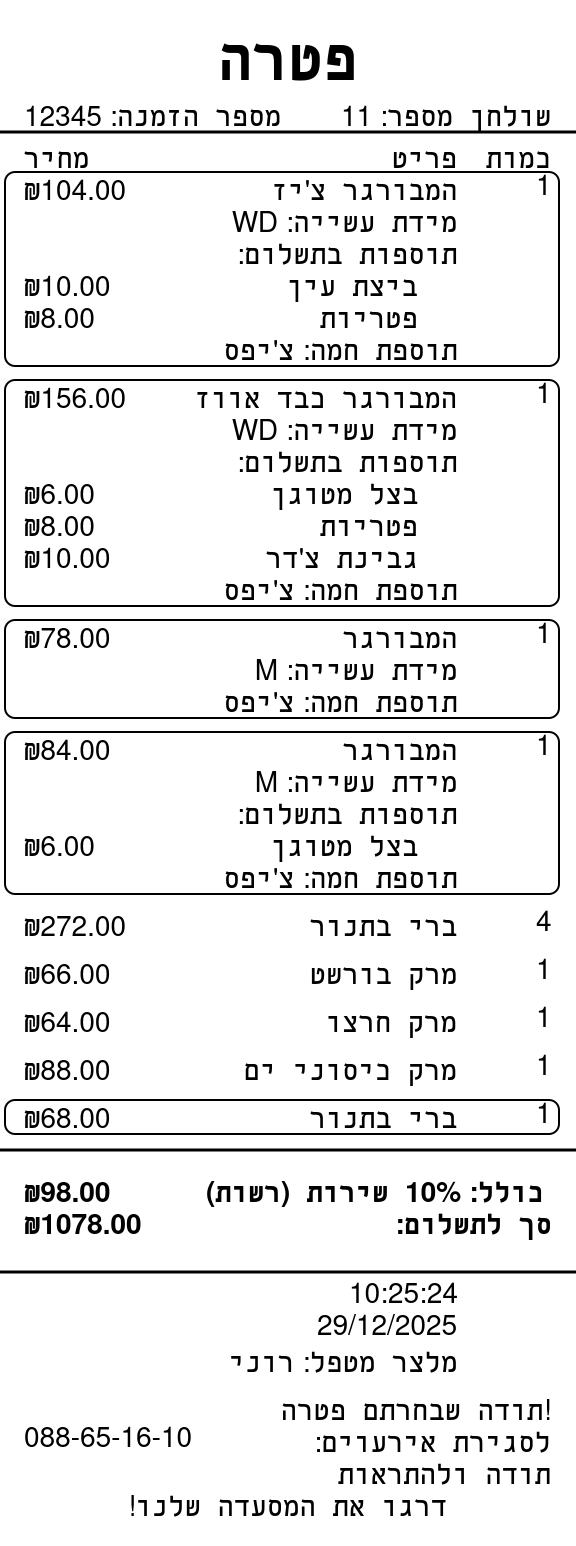
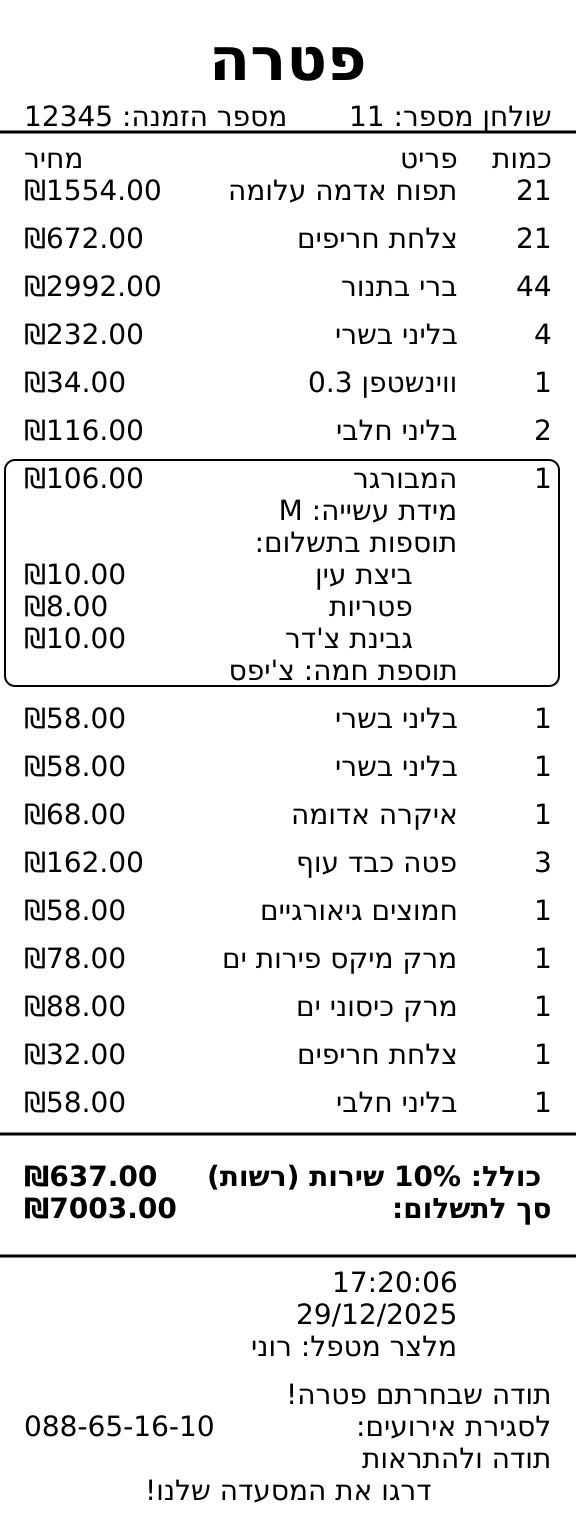
Started working on the bons

Changed region(s): [[0.0, 0.0307, 1.0, 0.983], [0.9375, 0.3993, 0.9688, 0.4301]]

diff --git a/helpers/printCanvas.js b/helpers/printCanvas.js
@@ -1,4 +1,4 @@
-const { createCanvas, loadImage } = require("canvas");
+const { createCanvas, registerFont } = require("canvas");
 const fs = require("fs");
 const bidiFactory = require("bidi-js");
 const bidi = bidiFactory();
@@ -13,12 +13,18 @@ const HEIGHT = 5000;
 const MARGIN = 24;
 const LINE_HEIGHT = 32;
 
-const LRM = "\u200E";
-const RLM = "\u200F";
-
 let y = MARGIN;
-
+const font = "Ariel";
 /* ----------------- HELPERS ----------------- */
+
+function hasNonVariationKeys(item) {
+  return (
+    item.extra &&
+    Object.keys(item.extra).some(
+      (key) => key !== "variations" && key !== "comment"
+    )
+  );
+}
 
 function drawRoundedRect(ctx, x, yTop, width, yBottom, radius) {
   const height = yBottom - yTop;
@@ -35,7 +41,7 @@ function drawRoundedRect(ctx, x, yTop, width, yBottom, radius) {
     yTop + height,
     x + width - radius,
     yTop + height,
-    radius,
+    radius
   );
   ctx.lineTo(x + radius, yTop + height);
   ctx.arcTo(x, yTop + height, x, yTop + height - radius, radius);
@@ -100,14 +106,14 @@ function newLine() {
 }
 
 function center(ctx, text, size = 28, bold = false) {
-  ctx.font = `${bold ? "bold" : ""} ${size}px Arial`;
+  ctx.font = `${bold ? "bold" : ""} ${size}px ${font}`;
   ctx.textAlign = "center";
   ctx.fillText(text, WIDTH / 2, y);
   lineIncrease(size);
 }
 
 function right(ctx, text, size = 24) {
-  ctx.font = `${size}px Arial`;
+  ctx.font = `${size}px ${font}`;
   ctx.textAlign = "right";
   ctx.fillText(text, WIDTH - MARGIN, y);
   lineIncrease(size);
@@ -123,7 +129,7 @@ function separator(ctx) {
 }
 
 function leftRight(ctx, leftText, rightText, size = 28) {
-  ctx.font = `${size}px Arial`;
+  ctx.font = `${size}px ${font}`;
   ctx.textAlign = "left";
   ctx.fillText(leftText, MARGIN, y);
 
@@ -140,10 +146,10 @@ function leftCenterRight(
   rightText,
   bold = false,
   centerOffset = 170,
-  size = 28,
+  size = 28
 ) {
   console.log(bold);
-  ctx.font = `${bold ? "bold" : ""} ${size}px Arial`;
+  ctx.font = `${bold ? "bold" : ""} ${size}px ${font}`;
 
   // Left
   ctx.textAlign = "left";
@@ -161,7 +167,7 @@ function leftCenterRight(
 }
 
 /* ----------------- RECEIPT ----------------- */
-async function printCanvas(order, autoClose = true) {
+async function printBill(order) {
   const canvas = createCanvas(WIDTH, HEIGHT);
   const ctx = canvas.getContext("2d");
   const waiter = await getWaiter(order.waiterID);
@@ -173,7 +179,7 @@ async function printCanvas(order, autoClose = true) {
   ctx.fillRect(0, 0, WIDTH, HEIGHT);
 
   ctx.fillStyle = "#000000";
-  ctx.font = "24px Arial";
+  ctx.font = `24px ${font}`;
   ctx.textBaseline = "top";
 
   // Header
@@ -196,11 +202,152 @@ async function printCanvas(order, autoClose = true) {
       ctx,
       "₪" + item.price * item.amount + ".00",
       item.name,
-      item.amount,
+      item.amount
     );
+    const infoItem = (await getItem(item.id))[0];
 
-    if (item.extra) {
-      const infoItem = (await getItem(item.id))[0];
+    if (infoItem.extra) {
+      for (const key of Object.keys(infoItem.extra)) {
+        if (key !== "variations" && infoItem.extra[key].type === "radio") {
+          let string;
+
+          console.log(
+            key,
+            containsHebrew(infoItem.extra[key].items[item.extra[key]].name)
+          );
+          if (containsHebrew(infoItem.extra[key].items[item.extra[key]].name)) {
+            string =
+              " ".repeat(MARGIN) +
+              translation[key] +
+              ": " +
+              (infoItem.extra[key].items[item.extra[key]]?.name ?? "");
+          } else {
+            string =
+              " ".repeat(MARGIN) +
+              (infoItem.extra[key].items[item.extra[key]]?.name ?? "") +
+              " :" +
+              translation[key];
+          }
+
+          leftCenterRight(ctx, "", string, "");
+        }
+        if (
+          key !== "variations" &&
+          infoItem.extra[key].type === "checkbox" &&
+          item.extra[key]
+        ) {
+          console.log(infoItem);
+          leftCenterRight(
+            ctx,
+            "",
+            " ".repeat(MARGIN) + `:${translation[key]}`,
+            ""
+          );
+
+          console.log(item.extra[key]);
+          for (const num of item.extra[key]) {
+            leftCenterRight(
+              ctx,
+              "₪" + infoItem.extra[key].items[num]?.price + ".00",
+              infoItem.extra[key].items[num]?.name + " ".repeat(5),
+              ""
+            );
+          }
+        }
+      }
+    }
+    if (hasNonVariationKeys(infoItem)) {
+      drawRoundedRect(ctx, 5, startY - 2, WIDTH - 22, y, 10);
+    }
+    newLine();
+    total += item.price * item.amount;
+  }
+
+  separator(ctx);
+
+  // Totals
+  newLine();
+  leftCenterRight(
+    ctx,
+    "₪" + Math.round(total * order.percent - total) + ".00",
+    "",
+    "כולל: " + toPercent(order.percent) + "% " + "שירות (רשות) ",
+    true
+  );
+  console.log(total);
+  console.log();
+
+  leftCenterRight(
+    ctx,
+    "₪" + Math.round(total * order.percent) + ".00",
+    "",
+    ":סך לתשלום",
+    true
+  );
+
+  lineIncrease();
+  separator(ctx);
+
+  leftCenterRight(ctx, "", order.time, "");
+  leftCenterRight(ctx, "", order.date, "");
+  leftCenterRight(ctx, "", "מלצר מטפל: " + waiter, "");
+
+  newLine();
+
+  leftCenterRight(ctx, "", "", "!תודה שבחרתם פטרה");
+  leftCenterRight(ctx, "088-65-16-10", "", ":לסגירת אירועים");
+  leftCenterRight(ctx, "", "", "תודה ולהתראות");
+  center(ctx, "!דרגו את המסעדה שלנו");
+
+  // Trim
+  const finalCanvas = createCanvas(WIDTH, y + MARGIN);
+  finalCanvas.getContext("2d").drawImage(canvas, 0, 0);
+
+  fs.writeFileSync("helpers/image.png", finalCanvas.toBuffer("image/png"));
+
+  printImage(
+    finalCanvas,
+    WIDTH,
+    nextMultipleOf8(y + MARGIN),
+    order.printer.address
+  );
+
+  y = MARGIN;
+}
+
+async function printBon(order) {
+  const canvas = createCanvas(WIDTH, HEIGHT);
+  const ctx = canvas.getContext("2d");
+  const waiter = await getWaiter(order.waiterID);
+
+  // Background
+  ctx.fillStyle = "#ffffff";
+  ctx.fillRect(0, 0, WIDTH, HEIGHT);
+
+  ctx.fillStyle = "#000000";
+  ctx.font = `24px ${font}`;
+  ctx.textBaseline = "top";
+
+  // Header
+  center(ctx, "פטרה", 60, true);
+  newLine();
+
+  // Order info
+  leftRight(ctx, "מספר הזמנה: " + 12345, "שולחן מספר: " + order.tableID);
+  separator(ctx);
+
+  //Items
+  leftCenterRight(ctx, "", "פריט", "כמות");
+
+  let total = 0;
+  for (const item of order.items.order) {
+    let startY = y;
+    console.log(item);
+    leftCenterRight(ctx, "", item.name, item.amount);
+
+    const infoItem = (await getItem(item.id))[0];
+
+    if (infoItem.extra) {
       for (const key of Object.keys(infoItem.extra)) {
         if (
           key !== "variations" &&
@@ -211,7 +358,7 @@ async function printCanvas(order, autoClose = true) {
 
           console.log(
             key,
-            containsHebrew(infoItem.extra[key].items[item.extra[key]].name),
+            containsHebrew(infoItem.extra[key].items[item.extra[key]].name)
           );
           if (containsHebrew(infoItem.extra[key].items[item.extra[key]].name)) {
             string =
@@ -240,67 +387,35 @@ async function printCanvas(order, autoClose = true) {
             ctx,
             "",
             " ".repeat(MARGIN) + `:${translation[key]}`,
-            "",
+            ""
           );
 
-          console.log(item.extra[key]);
           for (const num of item.extra[key]) {
             leftCenterRight(
               ctx,
-              "₪" + infoItem.extra[key].items[num]?.price + ".00",
-              infoItem.extra[key].items[num]?.name + " ".repeat(5),
               "",
+              infoItem.extra[key].items[num]?.name + " ".repeat(5),
+              ""
             );
           }
         }
       }
     }
-    if (item.extra) {
+    if (item.extra.comment && item.extra.comment !== "") {
+      console.log("entered");
+      leftCenterRight(ctx, "", item.extra.comment + " ".repeat(5), "");
+    }
+    if (hasNonVariationKeys(infoItem)) {
       drawRoundedRect(ctx, 5, startY - 2, WIDTH - 22, y, 10);
     }
     newLine();
     total += item.price * item.amount;
   }
 
-  separator(ctx);
-
-  // Totals
-  newLine();
-  leftCenterRight(
-    ctx,
-    "₪" + Math.round(total * order.percent - total) + ".00",
-    "",
-    "כולל: " + toPercent(order.percent) + "% " + "שירות (רשות) ",
-    true,
-  );
-  console.log(total);
-  console.log();
-
-  leftCenterRight(
-    ctx,
-    "₪" + Math.round(total * order.percent) + ".00",
-    "",
-    ":סך לתשלום",
-    true,
-  );
-
-  lineIncrease();
-  separator(ctx);
-
-  leftCenterRight(ctx, "", order.time, "");
-  leftCenterRight(ctx, "", order.date, "");
-  leftCenterRight(ctx, "", "מלצר מטפל: " + waiter, "");
-
-  newLine();
-
-  leftCenterRight(ctx, "", "", "תודה שבחרתם פטרה!");
-  leftCenterRight(ctx, "088-65-16-10", "", ":לסגירת אירעוים");
-  leftCenterRight(ctx, "", "", "תודה ולהתראות");
-  center(ctx, "!דרגו את המסעדה שלנו");
-
   // Trim
   const finalCanvas = createCanvas(WIDTH, y + MARGIN);
   finalCanvas.getContext("2d").drawImage(canvas, 0, 0);
+  y = MARGIN;
 
   fs.writeFileSync("helpers/image.png", finalCanvas.toBuffer("image/png"));
 
@@ -308,11 +423,8 @@ async function printCanvas(order, autoClose = true) {
     finalCanvas,
     WIDTH,
     nextMultipleOf8(y + MARGIN),
-    order.printer.address,
+    order.printer.address
   );
-
-  y = MARGIN;
-  console.log(waiter);
 }
 
-module.exports = { printCanvas };
+module.exports = { printBill, printBon };

diff --git a/routes/printer.js b/routes/printer.js
@@ -9,7 +9,7 @@ const EscPosEncoder = require("esc-pos-encoder");
 
 const { print, printQR } = require("../helpers/print");
 
-const { printCanvas } = require("../helpers/printCanvas");
+const { printBill, printBon } = require("../helpers/printCanvas");
 
 router.get("/get-all-printers", async (req, res) => {
   const rows = await pool.query("SELECT * FROM printers");
@@ -22,7 +22,7 @@ router.get("/get-items-printers/:id", async (req, res) => {
 
   const [printers] = await pool.query(
     "SELECT printers FROM menu WHERE id=?",
-    id,
+    id
   );
   console.log(printers);
   res.json(printers);
@@ -30,7 +30,13 @@ router.get("/get-items-printers/:id", async (req, res) => {
 
 router.post("/post-print-request", async (req, res) => {
   const request = req.body;
-  await printCanvas(request);
+
+  if ((request.type === "bill")) {
+    await printBill(request);
+  } else {
+    printBon(request);
+  }
+
   res.json({ ok: true });
 });
 

diff --git a/public/table/js/table.js b/public/table/js/table.js
@@ -418,7 +418,7 @@ async function seperatePrintRequest(order) {
         items: { order: array },
       };
 
-      //await sendPrintRequest(options);
+      await sendPrintRequest(options);
     }
     await delay(100);
   }
